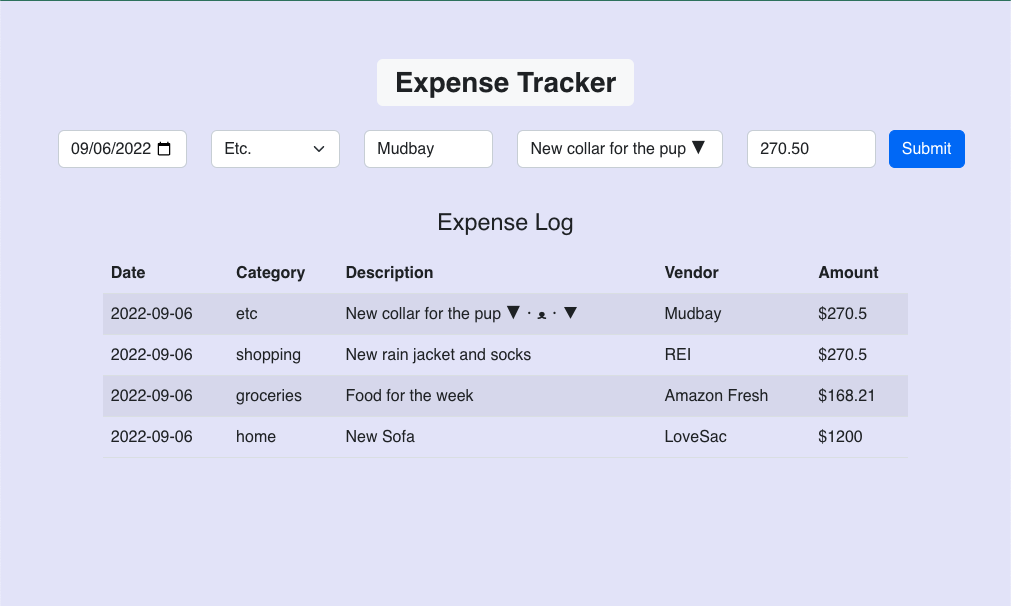
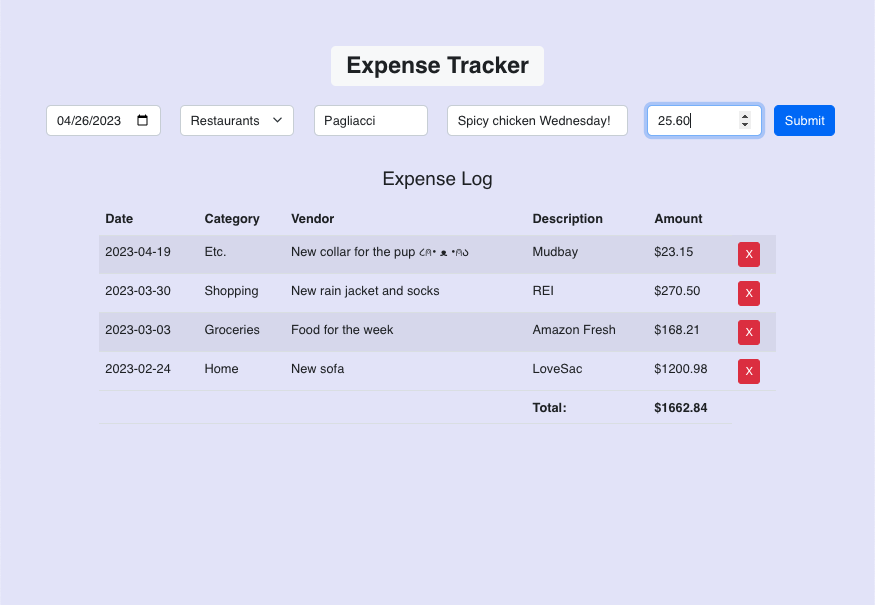
Updated README file

diff --git a/README.md b/README.md
@@ -12,10 +12,11 @@ Easily create, store, and refer your expenses using this Expense Tracker. With i
 
 ## Summary
 
-This expense tracker was implemented using React, React-Bootstrap, Javascript and is deployed using Heroku. The tracker has 5 inputs: a date picker, a category dropdown selector, and three text inputs for vendor, description, and amount. When all 5 inputs have a value, the user can press "submit" and an expense line will be added to the "Expense Log" table below. The user can also click on any expense in the table, and it will be deleted.
+This expense tracker was implemented using React, React-Bootstrap, Javascript and is deployed using Heroku. The tracker has 5 inputs: a date picker, a category dropdown selector, and three text inputs for vendor, description, and amount. When all 5 inputs have a value, the user can press "submit" and an expense line will be added to the "Expense Log" table below. The user can also click on any expense in the table, and it will be deleted. A total of the expenses input can be seen at the bottom of the table.
 
-This app also utilizes local storage for both the expense items and the inputs. This way, not only can the user be reassured that their expenses will still be there when they refresh or navigate back to the app, but their inputs will be stored as well if their session was interrupted.
+This app also utilizes local storage the expense items to prevent loss of expense information from navigating away from the page.
 
+This project was a great way for me to familiarize myself with React using class components. I think learning using class components gave me a strong foundation of how the various levels of components interact with eachother thorugh props. This was also a great exercise in using the component file structure to simplify code readability and ultimately make it easier to edit in the future.
 <br>
 
 Author
